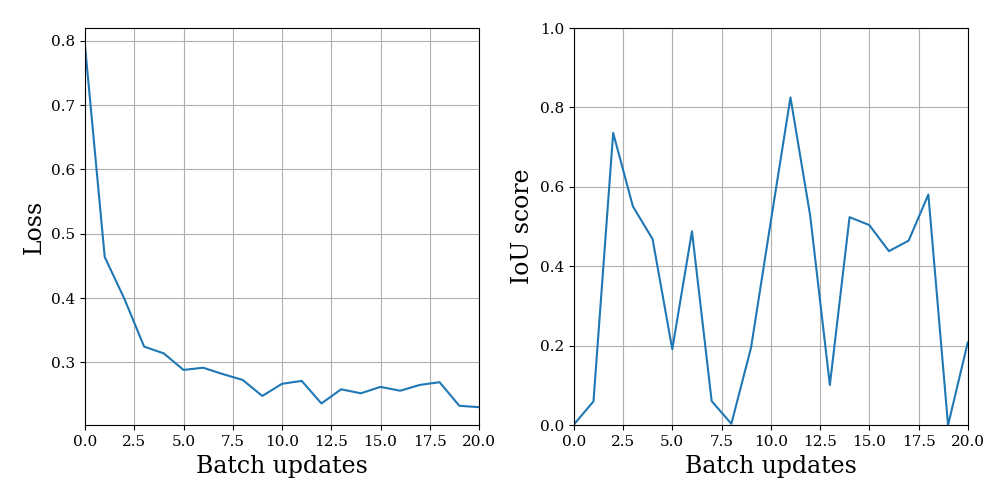
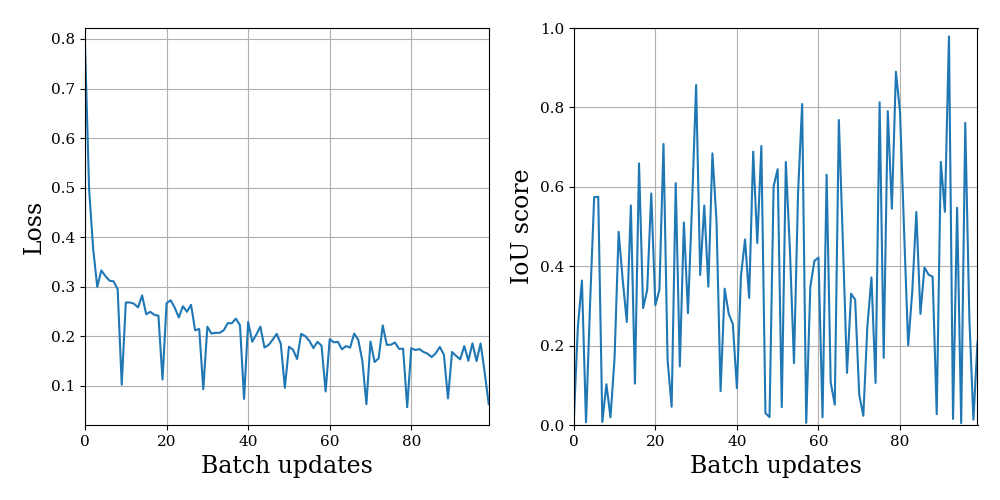
final update

diff --git a/visualize.py b/visualize.py
@@ -66,7 +66,7 @@ if __name__ == '__main__':
         checkpoint=checkpoint).to(device)  # ViT-Huge
 
     # load fine-tuned decoder
-    model_path = 'model/finetuned_decoder_epoch03_batch0021_score0.2082.pt'
+    model_path = 'model/SamLoss/finetuned_decoder_epoch10_batch0100_score0.2105.pt'
     sam_tuned = deepcopy(sam)
     sam_tuned.mask_decoder.load_state_dict(torch.load(model_path))
 
@@ -79,7 +79,7 @@ if __name__ == '__main__':
 
     shutil.rmtree(targets_path+'_predictions')
     os.makedirs(targets_path+'_predictions')
-    original_imgs = glob.glob(f'{targets_path}/*.jpg')[:100]
+    original_imgs = glob.glob(f'{targets_path}/*.jpg')[:200]
     for img in original_imgs:
         name = '.'.join(os.path.basename(img).split('.')[:-1])
         for mask_label in glob.glob(f'{targets_path}/{name}*.png'):

diff --git a/utils/sam_loss.py b/utils/sam_loss.py
@@ -9,8 +9,8 @@ class SamLoss(nn.Module):
         super().__init__()
         self.w_focal = 20
         self.w_dice = 1
-        self.w_focal = self.w_focal/(self.w_focal+self.w_dice)
-        self.w_dice = self.w_dice/(self.w_focal+self.w_dice)
+        # self.w_focal = self.w_focal/(self.w_focal+self.w_dice)
+        # self.w_dice = self.w_dice/(self.w_focal+self.w_dice)
 
     def iou_logits(self, inputs, targets):
         # For model score evaluation

diff --git a/utils/sam_dataset.py b/utils/sam_dataset.py
@@ -10,7 +10,7 @@ import random
 class SamDataset(Dataset):
     def __init__(self, path):
         random.seed(0)
-        self.original_imgs = glob.glob(f'{path}/*.jpg')[:200]
+        self.original_imgs = glob.glob(f'{path}/*.jpg')[:300]
         self.path = path
         self.images = []
         self.mask_labels = []

diff --git a/sam_FineTune.py b/sam_FineTune.py
@@ -61,7 +61,7 @@ def main():
     score_train = 0
     batched_loss_train = 0
     batch_count = 0
-    for epoch in range(10):
+    for epoch in range(100):
         # training batch loop
         sam.mask_decoder.train()
         steps = 0
